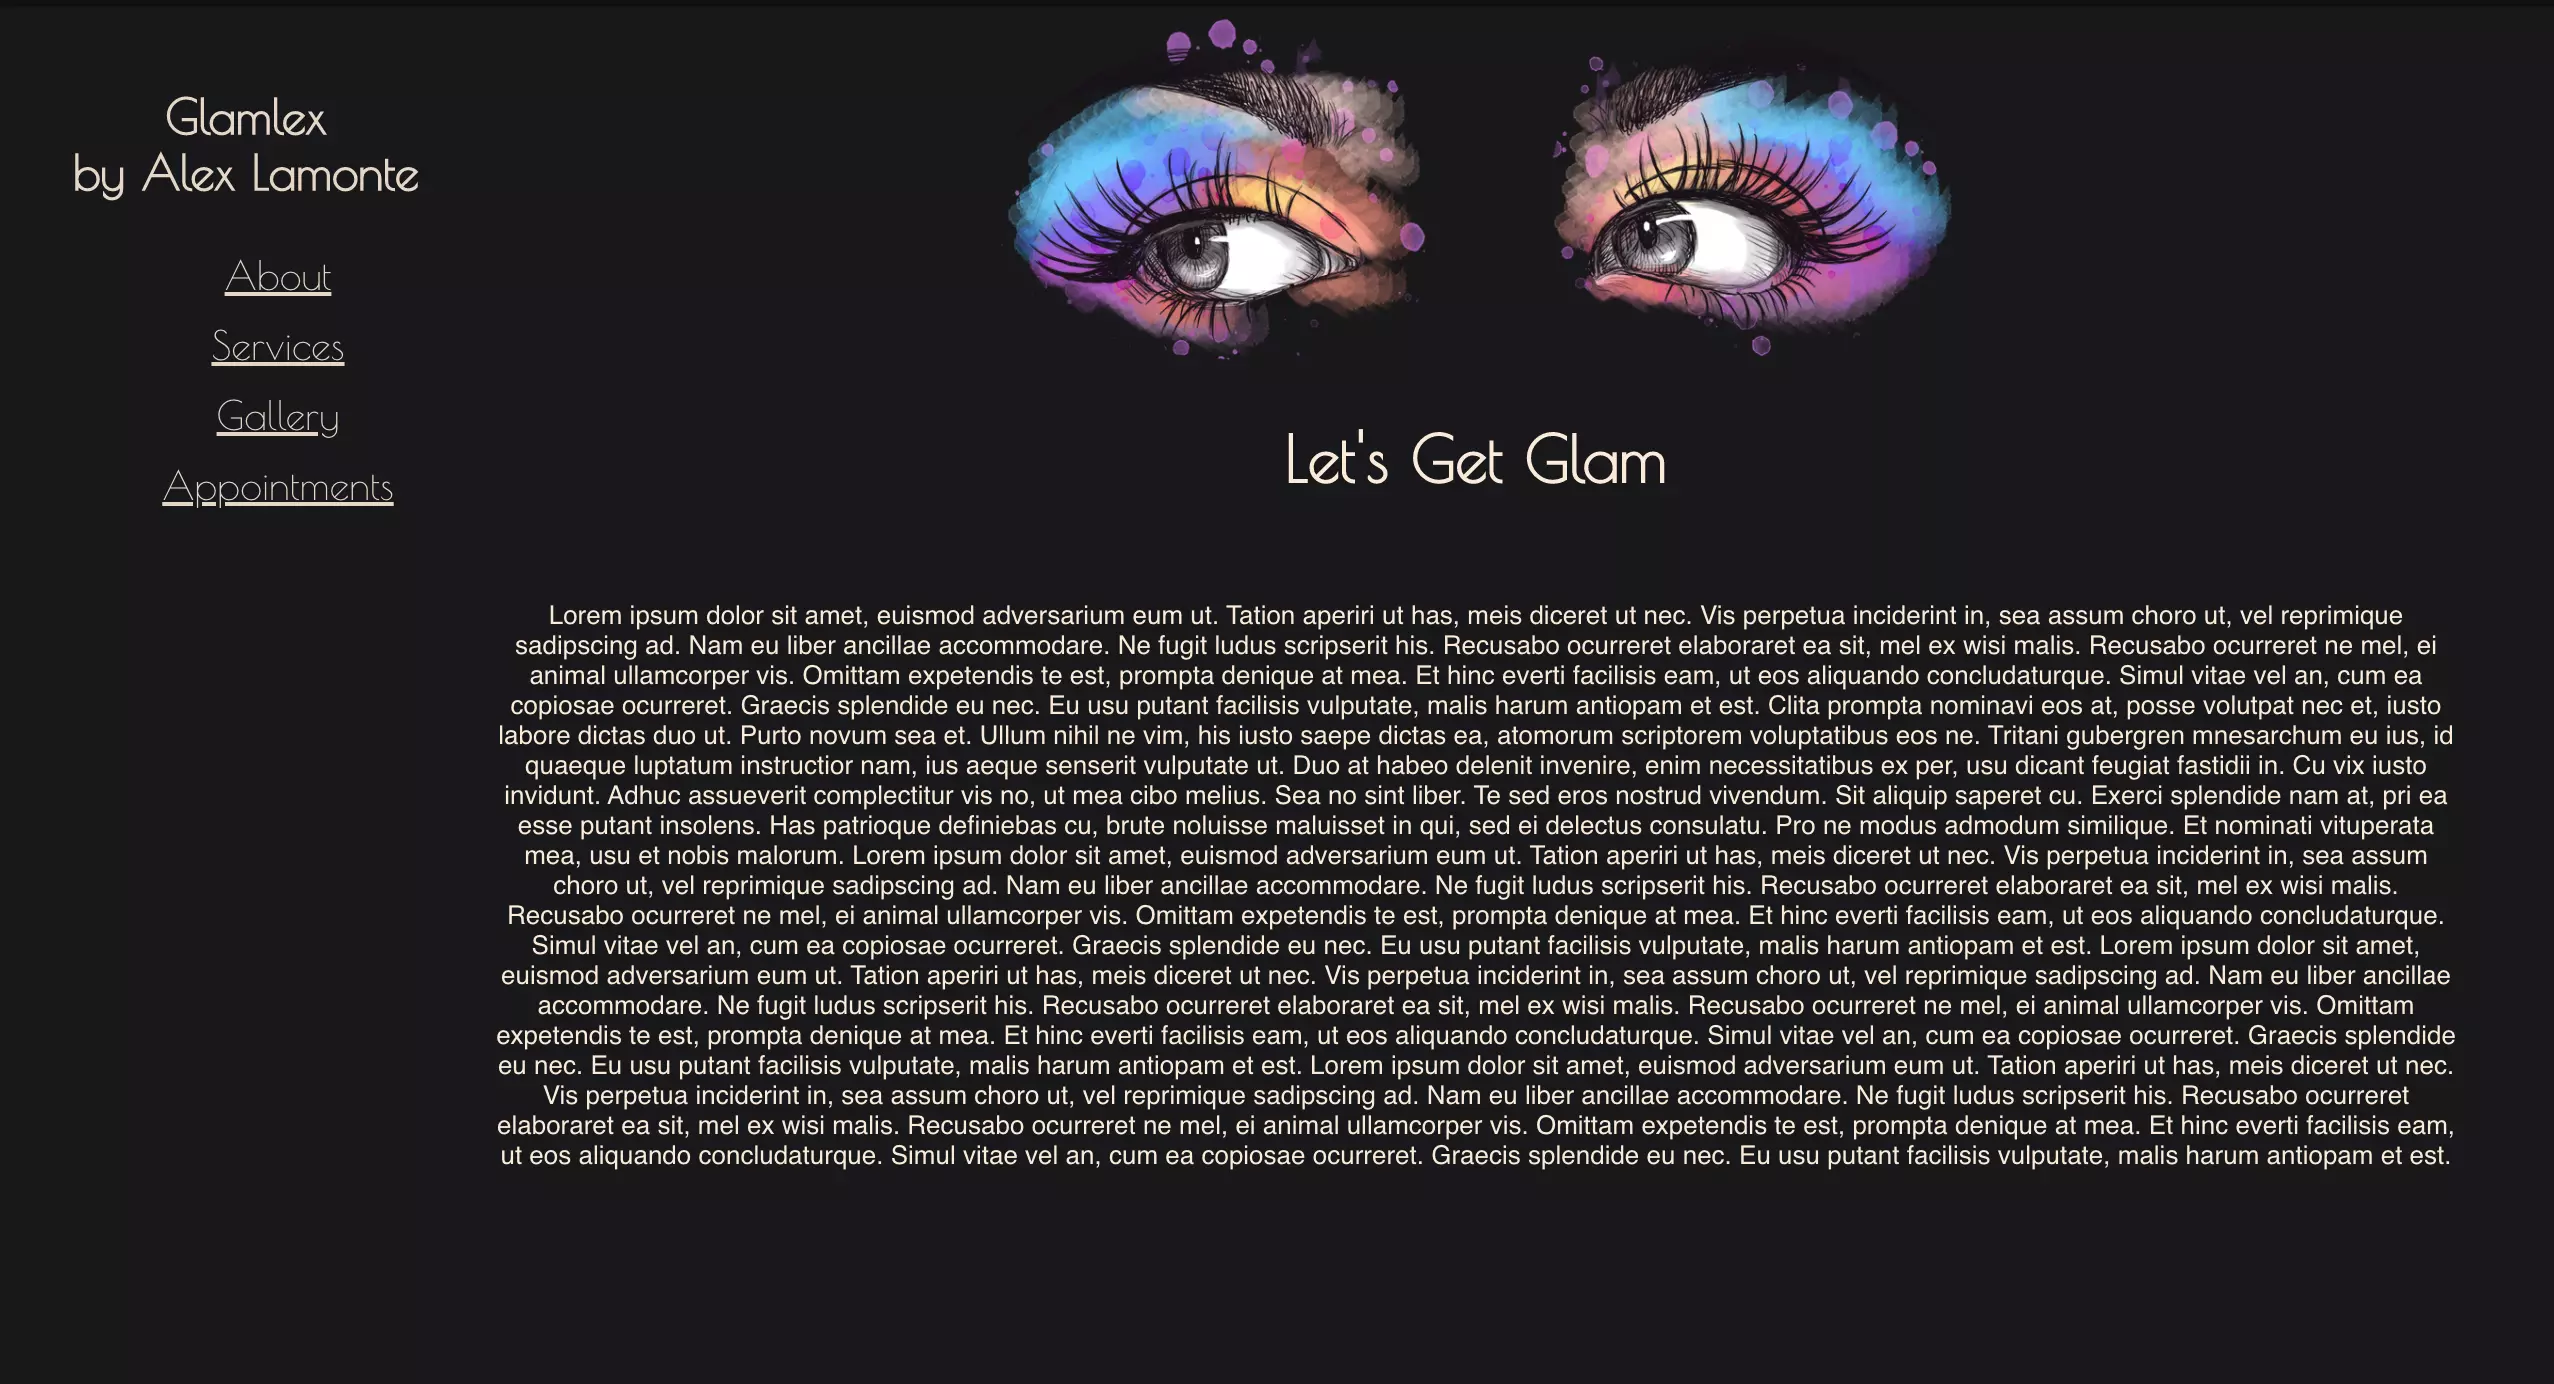
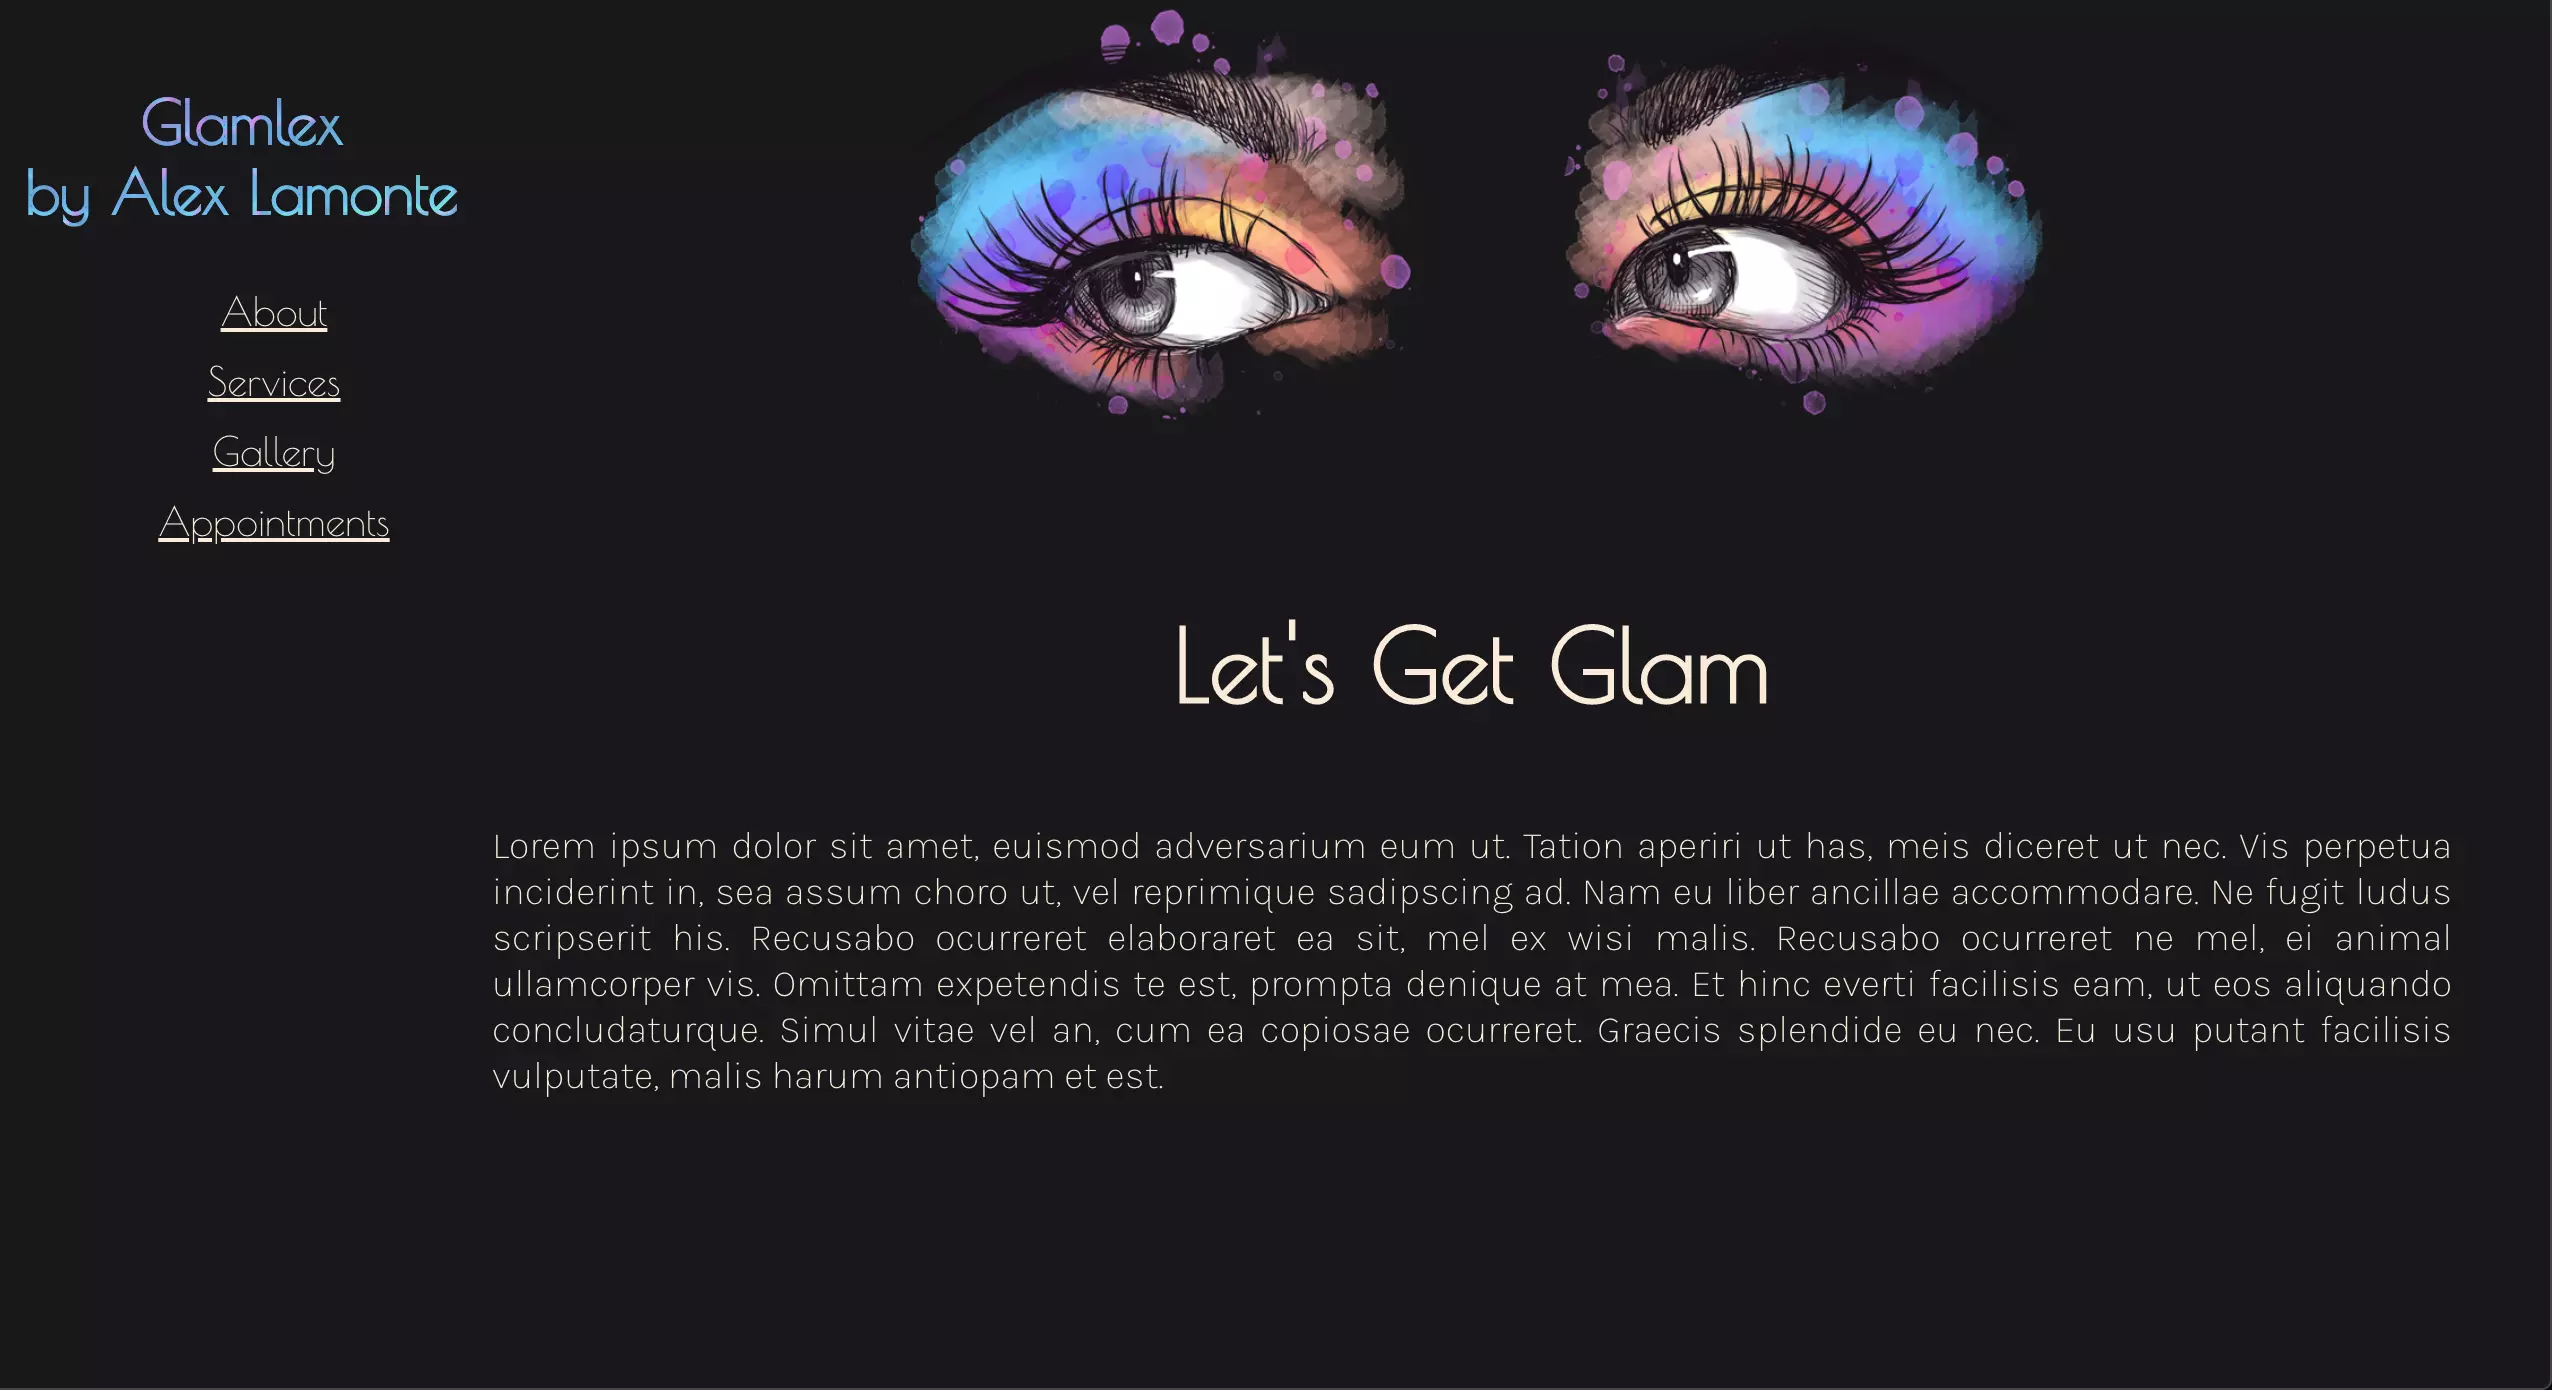
Update styling

diff --git a/src/App.js b/src/App.js
@@ -9,7 +9,7 @@ import TextLoop from 'react-text-loop';
 import Experience from './Experience/Experience';
 import {Link} from 'react-scroll';
 import glamlex from './Demos/glamlex.webp';
-import taskmaster from './Demos/taskmaster.webp';
+import untriggered from './Demos/untriggered.webp';
 import christmas from './Demos/christmascountdown.webp';
 
 class App extends Component {
@@ -17,9 +17,9 @@ class App extends Component {
 
   state = { 
     projects: [
-     { name: 'Glamlex', img: glamlex , desc: <a target='_blank' rel="noopener noreferrer" href='https://github.com/proiacm/Glamlex'>View Code</a>, live: <a className='live' target='_blank' rel="noopener noreferrer" href='https://proiacm.github.io/Glamlex/'>[View Live]</a>},
-     { name: 'Christmas Countdown', img: christmas, desc: <a target='_blank' rel="noopener noreferrer" href='https://github.com/proiacm/Christmas'>View Code</a>, live: <a className= 'live' target='_blank' rel="noopener noreferrer" href='https://proiacm.github.io/Christmas/'>[View Live]</a>},
-     { name: 'Taskmaster', img: taskmaster, desc: <a target='_blank' rel="noopener noreferrer" href='https://github.com/proiacm/Taskmaster'>View Code</a>}
+     { name: 'Glamlex', img: glamlex , link: <a target='_blank' rel="noopener noreferrer" href='https://github.com/proiacm/Glamlex'>View Code</a>, live: <a className='live' target='_blank' rel="noopener noreferrer" href='https://proiacm.github.io/Glamlex/'>[View Live]</a>, desc: 'React/JavaScript freelance project blueprint'},
+     { name: 'Christmas Countdown', img: christmas, link: <a target='_blank' rel="noopener noreferrer" href='https://github.com/proiacm/Christmas'>View Code</a>, live: <a className= 'live' target='_blank' rel="noopener noreferrer" href='https://proiacm.github.io/Christmas/'>[View Live]</a>, desc: 'React/JavaScript countdown timer'},
+     { name: 'Untriggered', img: untriggered, link: <a target='_blank' rel="noopener noreferrer" href='https://github.com/proiacm/untriggered'>View Code</a>, live: '[Live Soon]', desc: 'Ruby on Rails app with third-party auth'}
    ]
  }
 
@@ -27,7 +27,7 @@ class App extends Component {
 
     let projectList = <div>
       {this.state.projects.map((project, index) => {
-        return <Projects key={index} name={project.name} demo={project.img} desc={project.desc} live={project.live} />
+        return <Projects key={index} name={project.name} demo={project.img} link={project.link} live={project.live} desc={project.desc}/>
       })}
     </div>
 

diff --git a/src/About/About.js b/src/About/About.js
@@ -9,6 +9,7 @@ import node from '../Images/node.png';
 import sqlite from '../Images/sqlite.png';
 import npm from '../Images/npm.png';
 import lottie from '../Images/lottie.png';
+import firebase from '../Images/firebase.png';
 
 const About = () => {
     return (
@@ -19,15 +20,16 @@ const About = () => {
                                 <p>Leveraging experience in building client relationships and a passion for <br/>solving problems
                                 while developing stunning, useable applications.</p>
                                 <p className='funfact'>Fun fact: I have lived in North America, Central America, and Europe.</p>                                
-                                <img className='tech-stack1' src={js} alt='js'/>
+                                <img className='tech-stack' src={js} alt='js'/>
                                 <img className='tech-stack' src={react} alt='react'/>
-                                <img className='tech-stack' src={ruby} alt='ruby'/>  
-                                <img className='tech-stack' src={rails} alt='rails'/>  
-                                 <br/>
-                                <img className='tech-stack' src={node} alt='node'/>  
-                                <img className='tech-stack' src={sqlite} alt='sqlite'/>  
                                 <img className='tech-stack' src={npm} alt='npm'/>  
-                                <img className='tech-stack' src={lottie} alt='lottie'/>   
+                                <img className='tech-stack2' src={lottie} alt='lottie'/>  
+                                 <br/>
+                                <img className='tech-stack3' src={ruby} alt='ruby'/>  
+                                <img className='tech-stack1' src={rails} alt='rails'/>  
+                                <img className='tech-stack2' src={firebase} alt='firebase'/>  
+                                <img className='tech-stack1' src={node} alt='node'/>  
+                                <img className='tech-stack1' src={sqlite} alt='sqlite'/>   
                                 <br/><br/>    
                         </div>
             </div>

diff --git a/src/About/About.css b/src/About/About.css
@@ -28,32 +28,37 @@ img.About-img {
   -webkit-background-clip: text;
   text-transform: uppercase;
   padding-bottom: 3px;
-  font-family: 'Cinzel', serif;
-
+  font-family: Georgia, 'Times New Roman', Times, serif;
 }
 
 .funfact {
   font-style: italic;
+  padding-bottom: 30px;
 }
 
 
 .tech-stack {
-  width: 10%;
-  padding: 20px;
+  width: 4%;
+  padding: 5px;
 }
 
 .tech-stack1 {
   width: 6%;
-  padding: 20px;
+  padding: 5px;
 }
 
-.tech-stack:hover {
-  transition: 700ms;
-  opacity: 0.3;
+.tech-stack2 {
+  width: 10%;
+  padding: 5px;
 }
 
-.tech-stack1:hover {
-  transition: 700ms;
+.tech-stack3 {
+  width: 3%;
+  padding: 5px;
+}
+
+.tech-stack:hover, .tech-stack1:hover, .tech-stack2:hover, .tech-stack3:hover {
+  transition: 500ms;
   opacity: 0.3;
 }
 
@@ -67,6 +72,7 @@ img.About-img {
 
     .About-title {
       color: #323231;
+      font-size: 7vw;
     }
 
     img.About-img {
@@ -74,12 +80,28 @@ img.About-img {
       padding-bottom: 20px;
     }
     .tech-stack {
-      width: 20%;
+      width: 10%;
       height: auto;
       padding: 5px;
     }
 
     .tech-stack1 {
-      width: 10%;
+      width: 15%;
+      height: auto;
+      padding: 5px;
     }
+
+    .tech-stack2 {
+      width: 30%;
+      height: auto;
+      padding: 5px;
+    }
+
+    .tech-stack3 {
+      width: 10%;
+      height: auto;
+      padding: 5px;
+    }
+
+   
   }

diff --git a/src/Projects/Projects.js b/src/Projects/Projects.js
@@ -5,9 +5,10 @@ const Projects = (props) => {
     
     return (
         <div className='Project-card'>
-            <h3>{props.name} &nbsp;&nbsp; {props.live}</h3>
+            <h3>{props.name} &nbsp; {props.live}</h3>
+            <p>{props.desc}</p>
            <img className='image' src={props.demo}/>
-            <p className='text'>{props.desc}</p>
+            <p className='text'>{props.link}</p>
         </div>
     )
 }

diff --git a/src/App.css b/src/App.css
@@ -4,8 +4,7 @@
   text-align: center;
   background-color: #f3f1e9;
   overflow: hidden;
-  font-family: 'Cinzel', serif;
-  color: #323231;
+  font-family: Georgia, 'Times New Roman', Times, serif;  color: #323231;
   -webkit-font-smoothing: antialiased;
   -moz-osx-font-smoothing: grayscale;
 }

diff --git a/src/Nav/Nav.css b/src/Nav/Nav.css
@@ -17,7 +17,7 @@
 }
 
 .Animated {
-  font-family: 'Cinzel', serif;
+  font-family: Georgia, 'Times New Roman', Times, serif;
   -webkit-font-smoothing: antialiased;
   -moz-osx-font-smoothing: grayscale;
 }

diff --git a/src/Contact/Contact.css b/src/Contact/Contact.css
@@ -13,8 +13,7 @@
 }
 
 .animated {
-    font-family: 'Cinzel', serif;
-
+    font-family: Georgia, 'Times New Roman', Times, serif;
 }
  
 p.footer {
